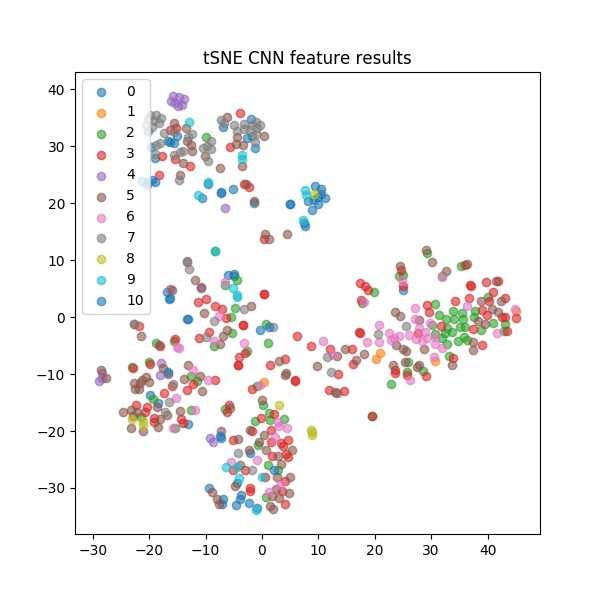
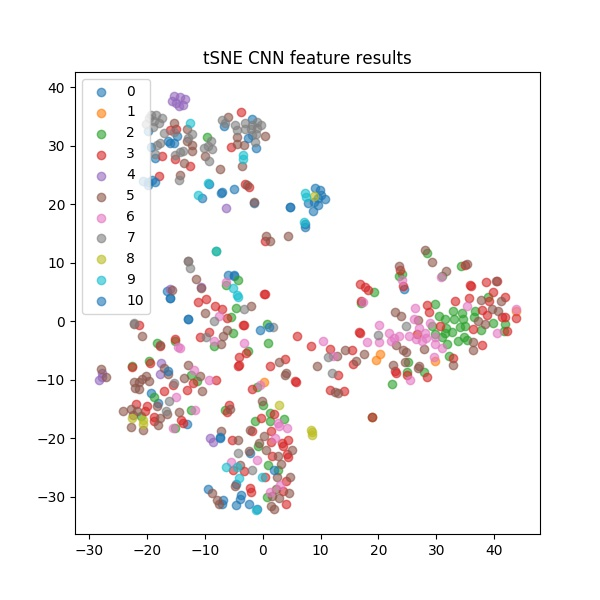
finish rnn inference (modified)

diff --git a/hw5/rnn_inference.py b/hw5/rnn_inference.py
@@ -36,7 +36,7 @@ def main(args):
                                    batch_size=len(valid_dataset),
                                    collate_fn=valid_dataset.rnn_collate_fn,
                                    shuffle=False)
-    """
+
     # 2-3
     result, ground_truth = [], []
     with torch.no_grad():
@@ -92,7 +92,7 @@ def main(args):
 
     filename = os.path.join(output_file, 'fig2_2.jpg')
     plt.savefig(filename)
-    """
+
     # 2-4
     print('Computing TSNE......')
 
@@ -106,7 +106,7 @@ def main(args):
         model.eval()
 
         # CNN
-        cnn_tsne = TSNE(n_components=2, random_state=30, verbose=1, n_iter=2000)
+        cnn_tsne = TSNE(n_components=2, random_state=30, verbose=1, n_iter=1500)
         for video, label in cnn_valid_data_loader:
             print("\tCNN based features")
             cnn_features = video.cpu().numpy()
@@ -124,7 +124,7 @@ def main(args):
             plt.savefig(filename)
 
         # RNN
-        rnn_tsne = TSNE(n_components=2, random_state=30, verbose=1, n_iter=2000)
+        rnn_tsne = TSNE(n_components=2, random_state=30, verbose=1, n_iter=1500)
         for video, label, length in valid_data_loader:
             print("\tRNN based features")
             video = Variable(video).cuda() if with_cuda else Variable(video)
